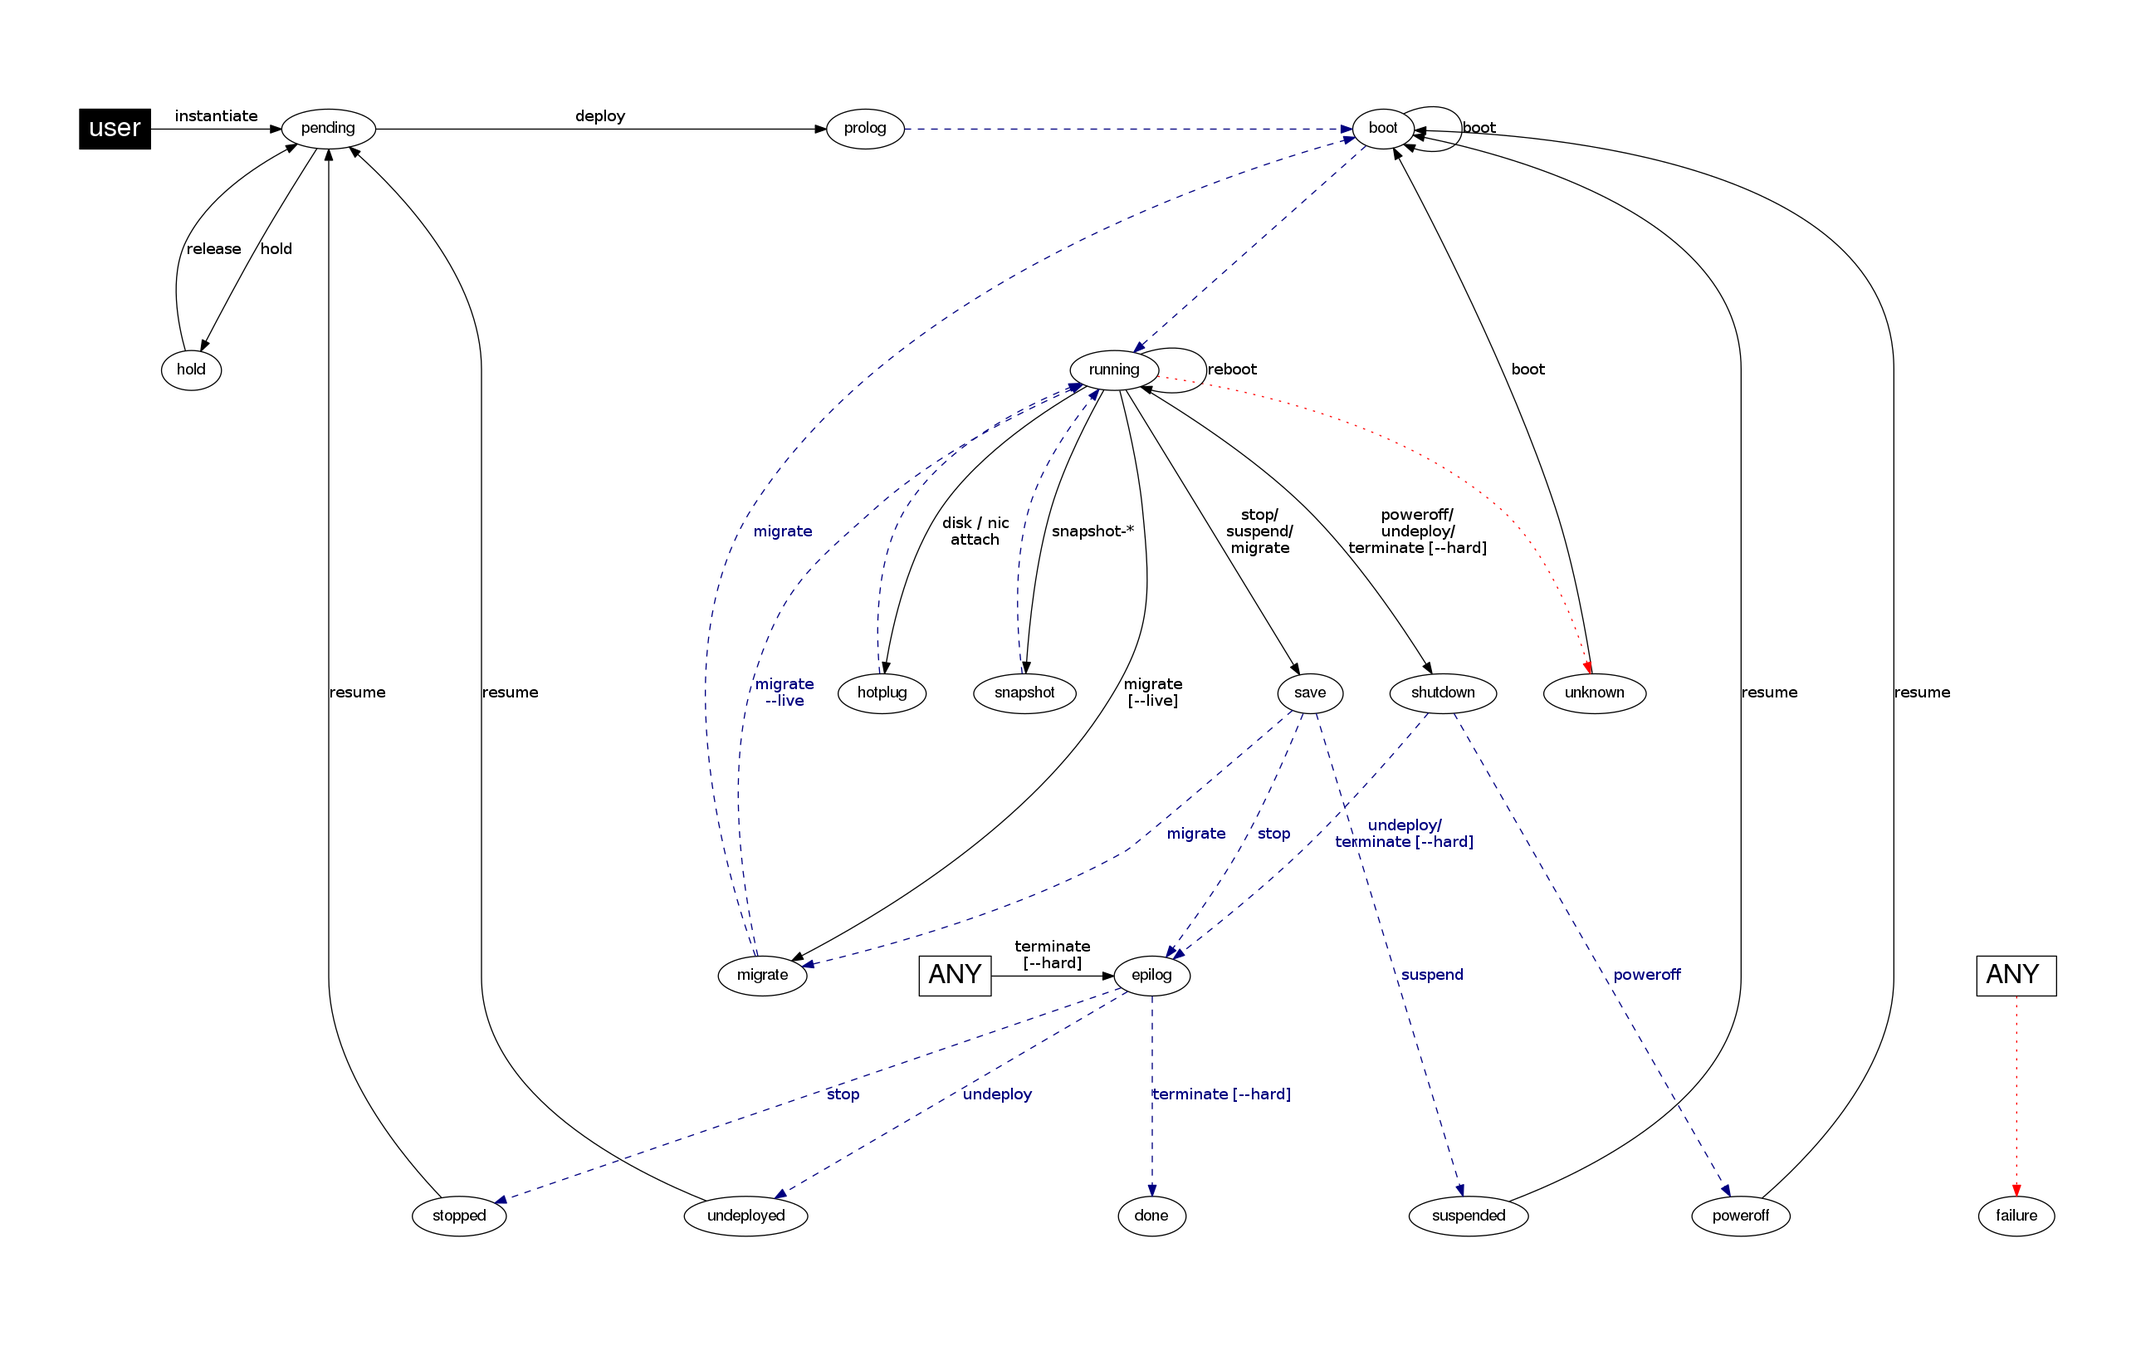
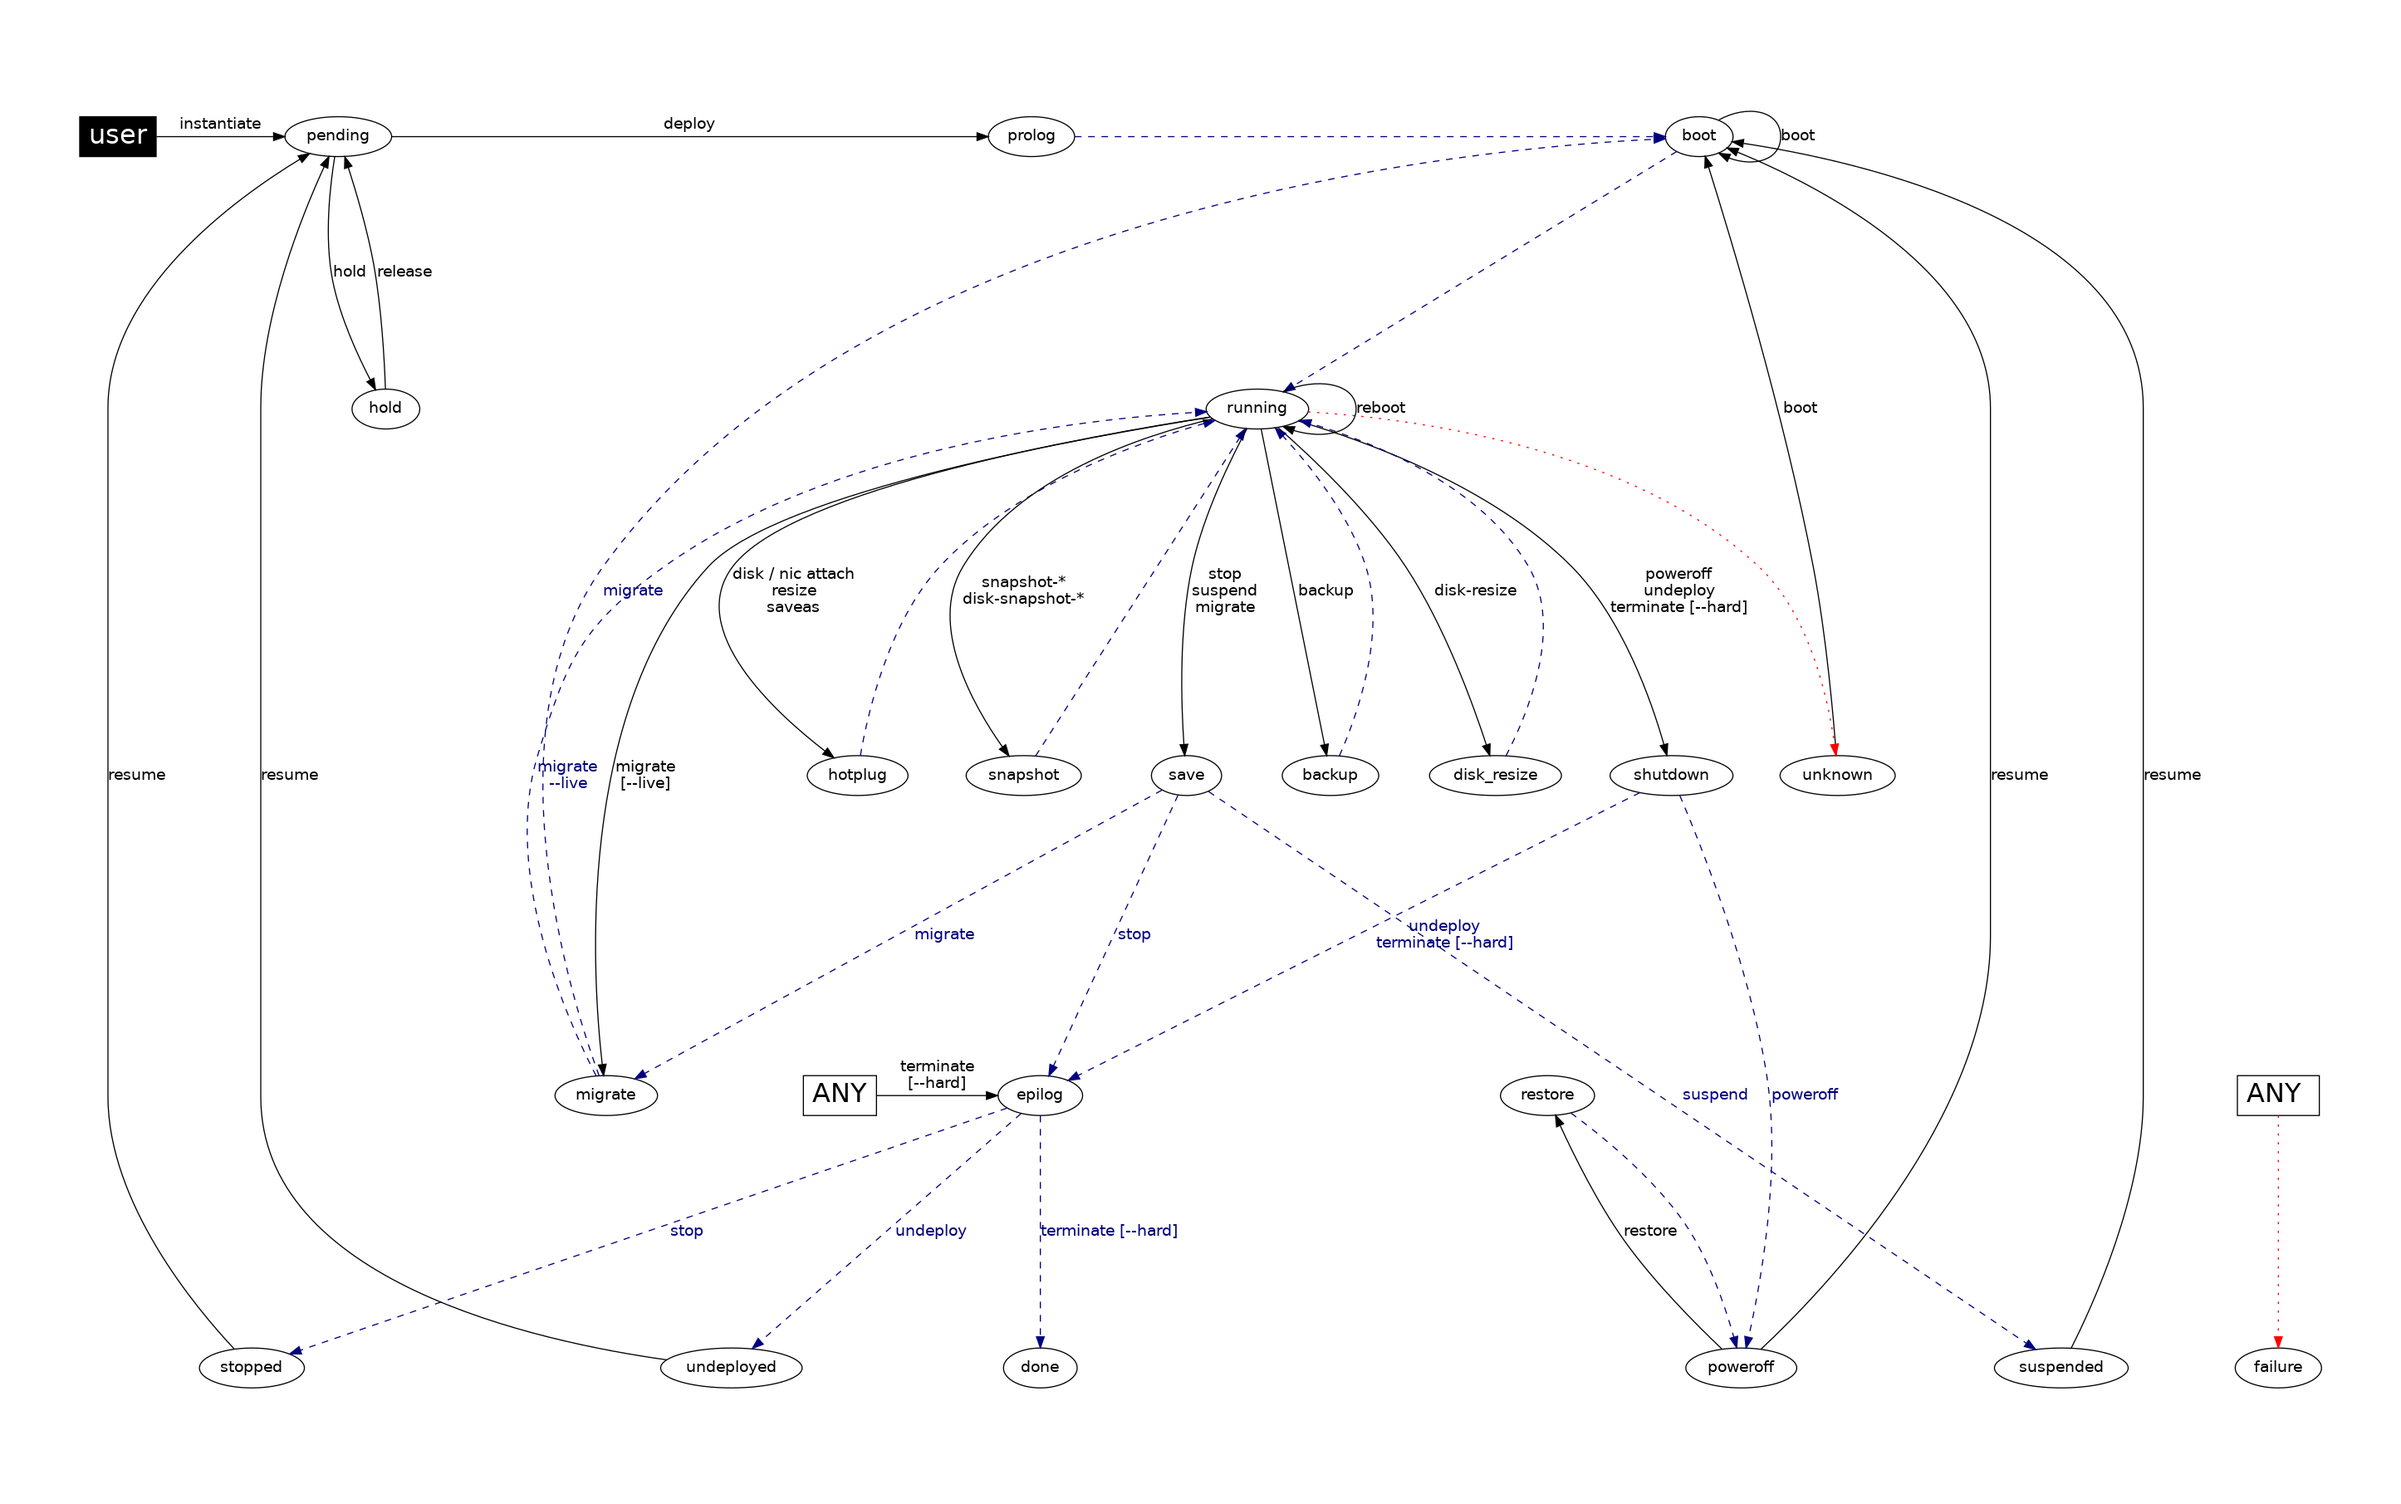
M #-: Update VM state graphs

diff --git a/source/management_and_operations/vm_management/vm_instances.rst b/source/management_and_operations/vm_management/vm_instances.rst
@@ -33,7 +33,7 @@ The life-cycle of a Virtual Machine within OpenNebula includes the following sta
 +-------------+----------------------+----------------------------------------------------------------------------------------------------------------------------------------------------------------------------------------------------------------------------------------------------------------------------------------------------------+
 | ``migr``    | ``Migrate``          | The VM is migrating from one resource to another. This can be a life migration or cold migration (the VM is saved, powered-off or powered-off hard and VM files are transferred to the new resource).                                                                                                    |
 +-------------+----------------------+----------------------------------------------------------------------------------------------------------------------------------------------------------------------------------------------------------------------------------------------------------------------------------------------------------+
-| ``hotp``    | ``Hotplug``          | A disk attach/detach, nic attach/detach operation is in process.                                                                                                                                                                                                                                         |
+| ``hotp``    | ``Hotplug``          | A disk attach/detach, nic attach/detach, saveas or resize operation is in process.                                                                                                                                                                                                                       |
 +-------------+----------------------+----------------------------------------------------------------------------------------------------------------------------------------------------------------------------------------------------------------------------------------------------------------------------------------------------------+
 | ``snap``    | ``Snapshot``         | A system snapshot is being taken.                                                                                                                                                                                                                                                                        |
 +-------------+----------------------+----------------------------------------------------------------------------------------------------------------------------------------------------------------------------------------------------------------------------------------------------------------------------------------------------------+
@@ -52,6 +52,12 @@ The life-cycle of a Virtual Machine within OpenNebula includes the following sta
 |             |                      | When the VM guest is shutdown, OpenNebula will put the VM in this state.                                                                                                                                                                                                                                 |
 +-------------+----------------------+----------------------------------------------------------------------------------------------------------------------------------------------------------------------------------------------------------------------------------------------------------------------------------------------------------+
 | ``unde``    | ``Undeployed``       | The VM is shut down. The VM disks are transferred to the system datastore. The VM can be resumed ater.                                                                                                                                                                                                   |
++-------------+----------------------+----------------------------------------------------------------------------------------------------------------------------------------------------------------------------------------------------------------------------------------------------------------------------------------------------------+
+| ``drsz``    | ``Disk Resize``      | The VM disk resize is in progress                                                                                                                                                                                                                                                                        |
++-------------+----------------------+----------------------------------------------------------------------------------------------------------------------------------------------------------------------------------------------------------------------------------------------------------------------------------------------------------+
+| ``back``    | ``Backup``           | The VM backup is in progress                                                                                                                                                                                                                                                                             |
++-------------+----------------------+----------------------------------------------------------------------------------------------------------------------------------------------------------------------------------------------------------------------------------------------------------------------------------------------------------+
+| ``rest``    | ``Restore``          | The VM disks are restored from backup image                                                                                                                                                                                                                                                              |
 +-------------+----------------------+----------------------------------------------------------------------------------------------------------------------------------------------------------------------------------------------------------------------------------------------------------------------------------------------------------+
 | ``fail``    | ``Failed``           | The VM failed.                                                                                                                                                                                                                                                                                           |
 +-------------+----------------------+----------------------------------------------------------------------------------------------------------------------------------------------------------------------------------------------------------------------------------------------------------------------------------------------------------+

diff --git a/source/integration_and_development/references/vm_states.rst b/source/integration_and_development/references/vm_states.rst
@@ -163,6 +163,8 @@ In OpenNebula a Virtual Machine has 2 variables to define its state: ``STATE`` a
 +----+-----------------+----+---------------------------------+-------------------+---------------------------------------------------------------------------------------------------------------------------------------------------------------------------------------------------------------------------------------------------------------------------------------------------------------+
 |    |                 | 70 | BACKUP_POWEROFF                 | ``back``          | A backup operation is in progress (VM poweroff).                                                                                                                                                                                                                                                              |
 +----+-----------------+----+---------------------------------+-------------------+---------------------------------------------------------------------------------------------------------------------------------------------------------------------------------------------------------------------------------------------------------------------------------------------------------------+
+|    |                 | 71 | RESTORE                         | ``rest``          | A VM disks are restored from backup image.                                                                                                                                                                                                                                                                    |
++----+-----------------+----+---------------------------------+-------------------+---------------------------------------------------------------------------------------------------------------------------------------------------------------------------------------------------------------------------------------------------------------------------------------------------------------+
 |  4 | STOPPED         |    |                                 | ``stop``          | The VM is stopped. VM state has been saved and it has been transferred back along with the disk images to the system datastore                                                                                                                                                                                |
 +----+-----------------+----+---------------------------------+-------------------+---------------------------------------------------------------------------------------------------------------------------------------------------------------------------------------------------------------------------------------------------------------------------------------------------------------+
 |  5 | SUSPENDED       |    |                                 | ``susp``          | Same as stopped, but the files are left in the host to later resume the VM there (i.e. there is no need to re-schedule the VM)                                                                                                                                                                                |
